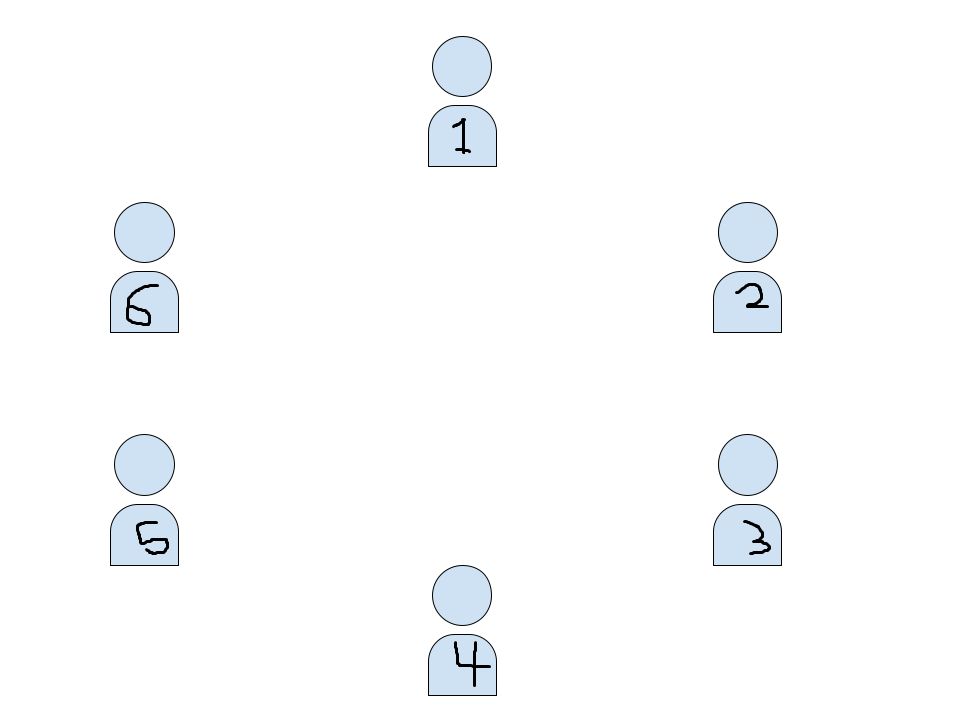
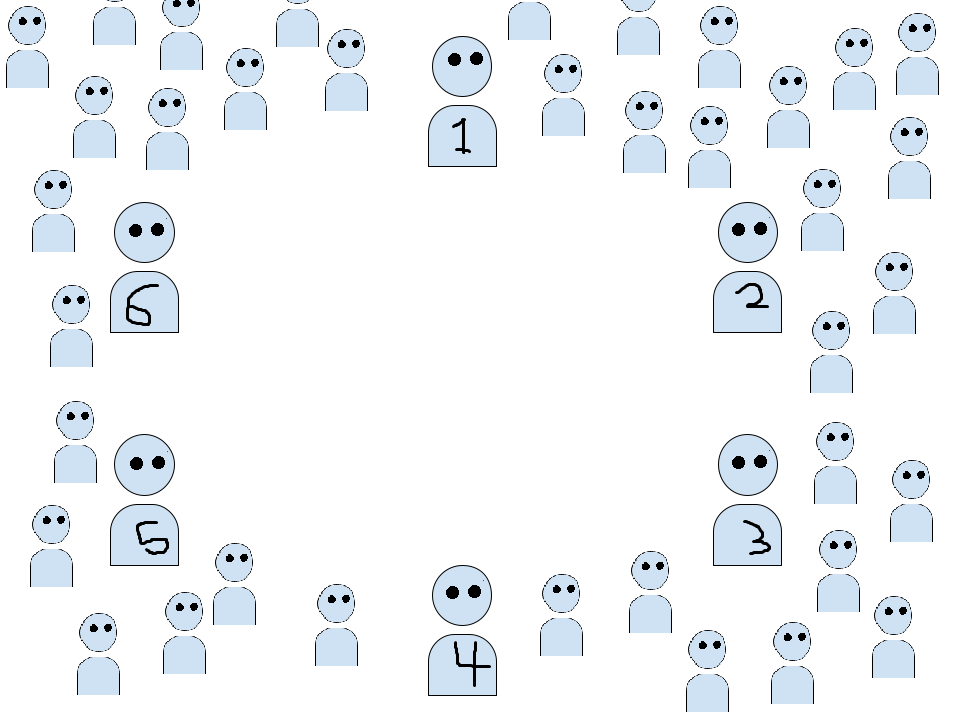
Add files via upload

diff --git a/main.cpp b/main.cpp
@@ -23,6 +23,7 @@ int main(void){
     Texture2D gun5 = LoadTexture("gun5.png");
     Texture2D gun6 = LoadTexture("gun6.png");
     Texture2D people = LoadTexture("people.png");
+    Texture2D target = LoadTexture("target.png");
     string instructions = "Press Space to do Russian Roulette";
     while(!WindowShouldClose()){
         if (IsKeyPressed(KEY_SPACE)){
@@ -31,30 +32,37 @@ int main(void){
         BeginDrawing();
         ClearBackground(WHITE);
 
-        DrawTexture(people, 70, 100, WHITE);
+        DrawTexture(people, 0, 0, WHITE);
         DrawText(instructions.c_str(), 250, 900, 30, BLACK);
 
         
         if (die.side==0){
-        DrawTexture(gun, 70, 120, WHITE);    
+        DrawTexture(gun, 0, 20, WHITE); 
+           
         }
         else if (die.side==1){
-        DrawTexture(gun1, 70, 120, WHITE);    
+        DrawTexture(gun1, 0, 20, WHITE);
+        DrawTexture(target, 363, 17, WHITE);     
         }
         else if (die.side==2){
-        DrawTexture(gun2, 70, 120, WHITE);    
+        DrawTexture(gun2, 0, 20, WHITE);   
+        DrawTexture(target, 648, 180, WHITE);  
         }
         else if (die.side==3){
-        DrawTexture(gun3, 70, 120, WHITE);    
+        DrawTexture(gun3, 0, 20, WHITE); 
+        DrawTexture(target, 648, 405, WHITE);       
         }
         else if (die.side==4){
-        DrawTexture(gun4, 20, 120, WHITE);    
+        DrawTexture(gun4, -50, 20, WHITE);    
+        DrawTexture(target, 363, 545, WHITE); 
         }
         else if (die.side==5){
-        DrawTexture(gun5, 70, 120, WHITE);    
+        DrawTexture(gun5, 0, 20, WHITE);
+        DrawTexture(target, 45, 405, WHITE);    
         }
         else if (die.side==6){
-        DrawTexture(gun6, 70, 120, WHITE);    
+        DrawTexture(gun6, 0, 20, WHITE);
+        DrawTexture(target, 45, 180, WHITE);    
         }
         EndDrawing();    
 
